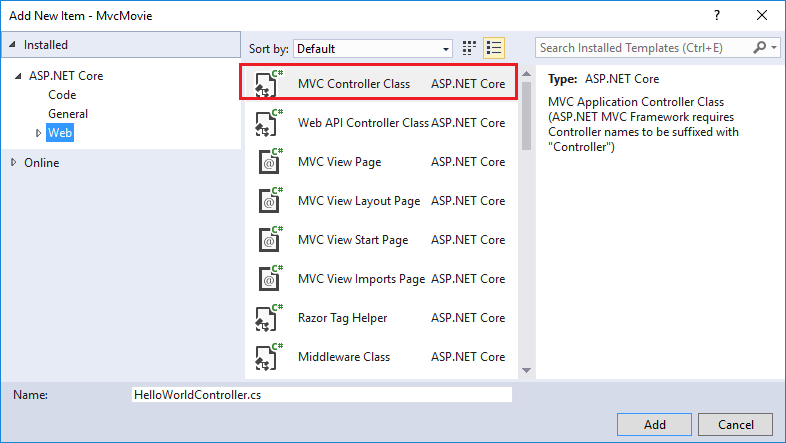
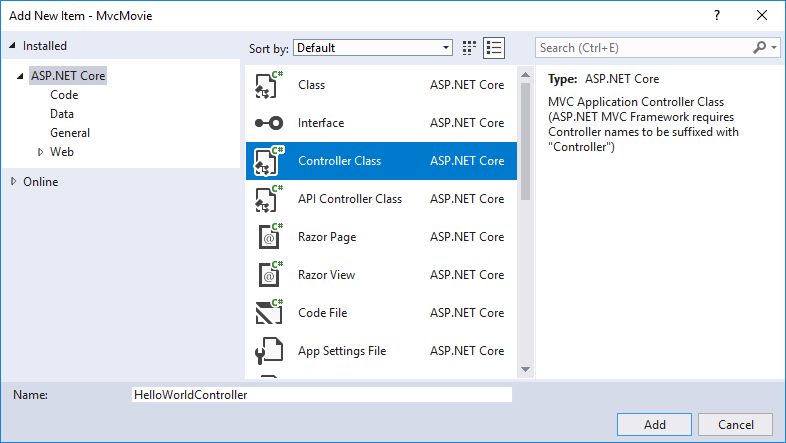
Update add controller for VS changes (#6037)

diff --git a/aspnetcore/tutorials/first-mvc-app/adding-controller.md b/aspnetcore/tutorials/first-mvc-app/adding-controller.md
@@ -21,7 +21,7 @@ By [Rick Anderson](https://twitter.com/RickAndMSFT)
 
 ![Contextual menu](adding-controller/_static/add_controller.png)
 
-* Select **MVC Controller Class**
+* Select **Controller Class**
 * In the **Add New Item** dialog, enter **HelloWorldController**.
 
 ![Add MVC controller and name it](adding-controller/_static/ac.png)
